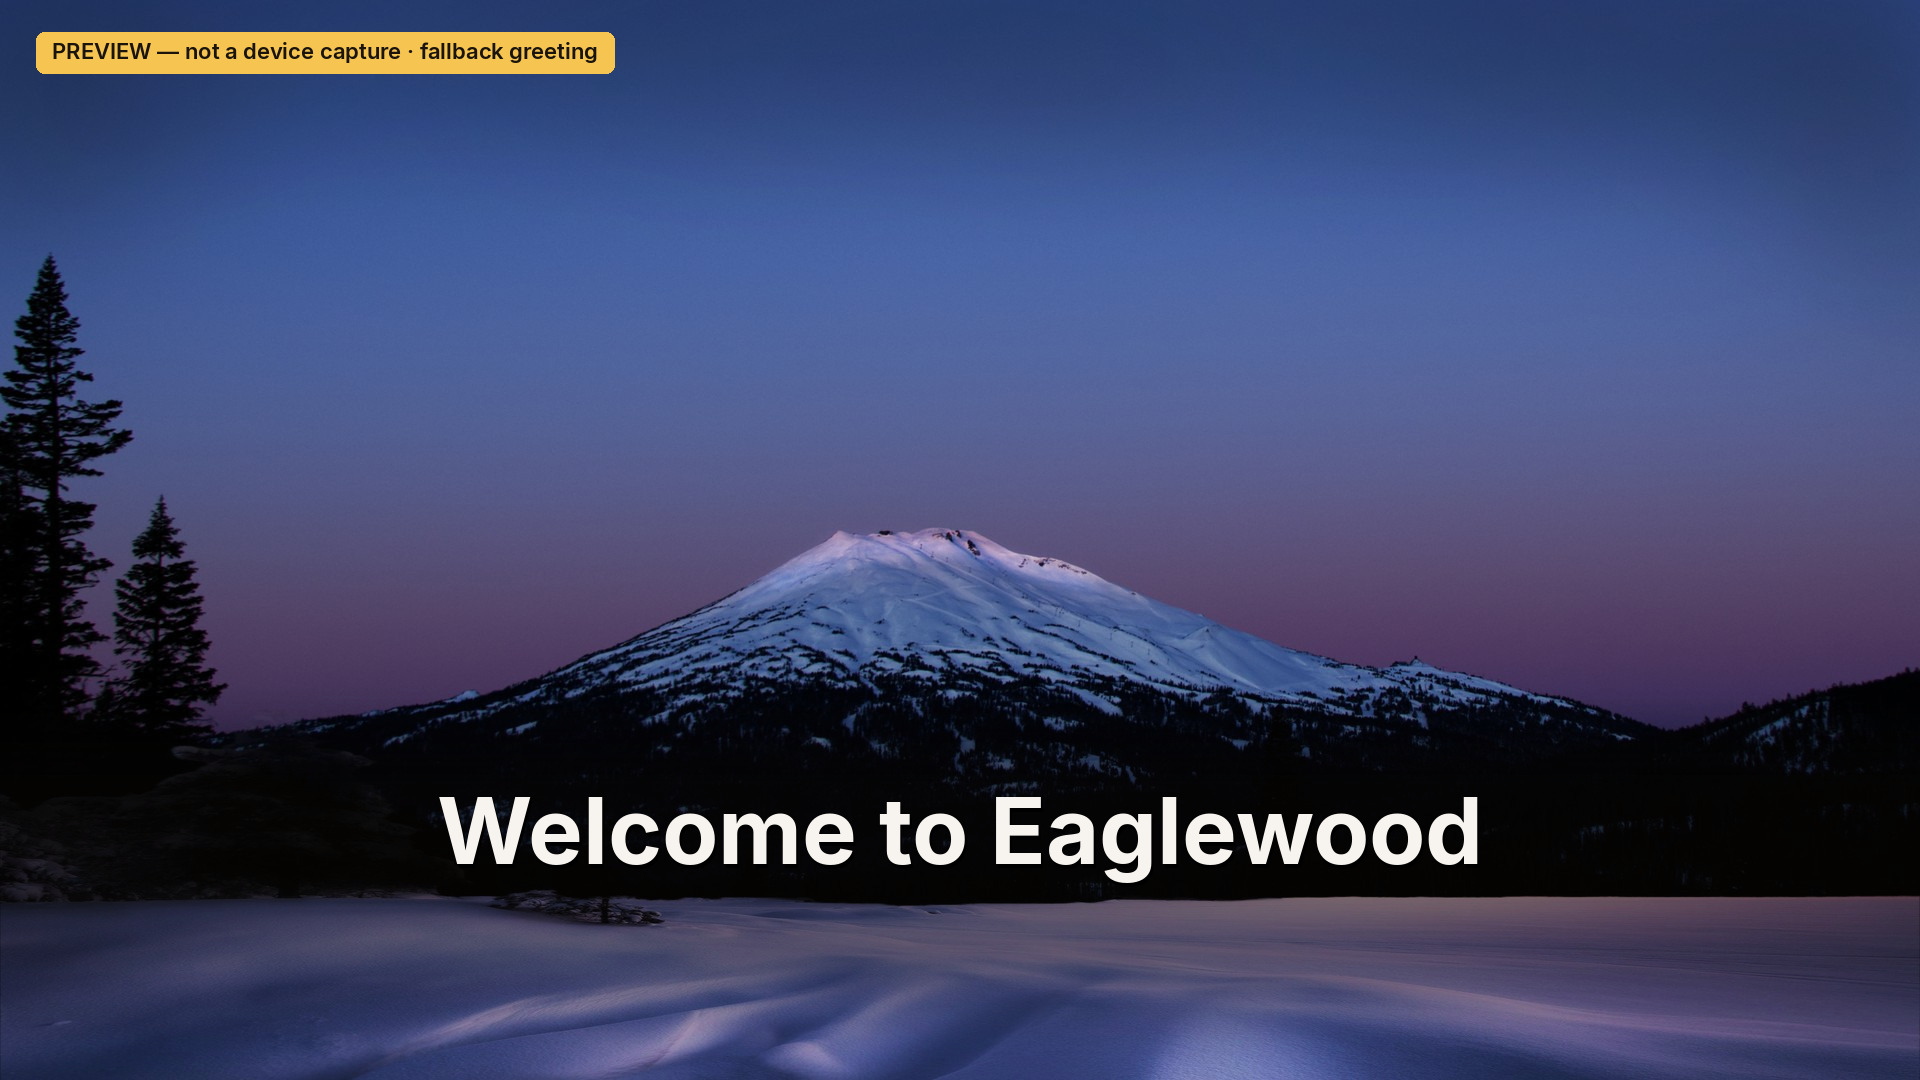
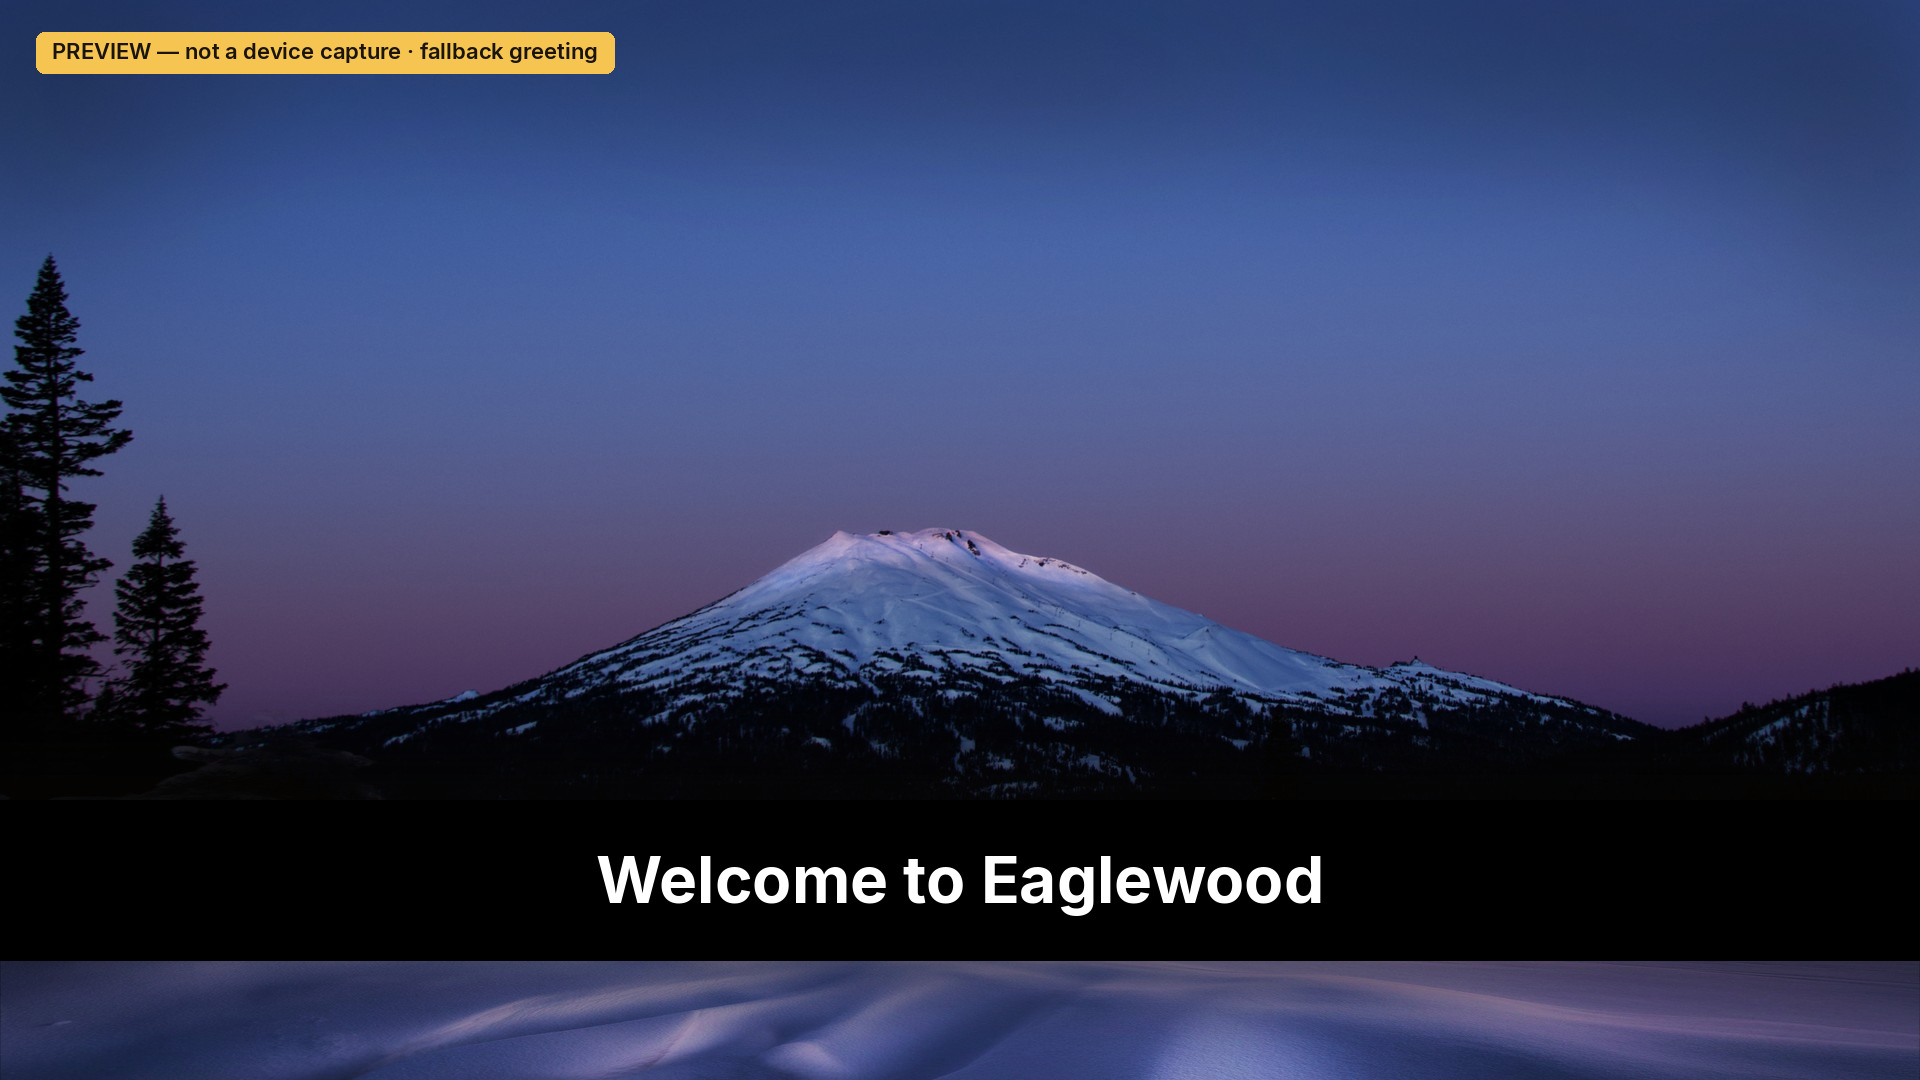
Show the welcome line with the system font.
A child Font uri of font:LargeBoldSystemFont never loads, so the label drew no glyphs over the photograph. The label now uses that system face directly, in white on a dark bar, and prints the greeting to the debug console.

Changed region(s): [[0.0, 0.7333, 1.0, 0.9167]]

diff --git a/scripts/render_preview.py b/scripts/render_preview.py
@@ -27,20 +27,19 @@ FONT = "/usr/share/fonts/truetype/macos/Inter-Bold.ttf"
 BADGE_FONT = "/usr/share/fonts/truetype/macos/Inter-SemiBold.ttf"
 
 
-def parse_label(xml: str, node_id: str) -> dict[str, str]:
-    match = re.search(
-        rf'<Label\s+id="{node_id}"([^>]*)>(.*?)</Label>',
-        xml,
-        re.DOTALL,
-    )
+def parse_tag(xml: str, tag: str, node_id: str) -> dict[str, str]:
+    match = re.search(rf'<{tag}\s+id="{node_id}"([^>]*)/?>', xml)
     if match is None:
-        raise SystemExit(f"label {node_id} not found")
-    attrs = dict(re.findall(r'(\w+)="([^"]*)"', match.group(1)))
-    font = re.search(r'<Font\b([^>]*)/>', match.group(2))
-    if font is None:
-        raise SystemExit(f"font for {node_id} not found")
-    attrs.update(dict(re.findall(r'(\w+)="([^"]*)"', font.group(1))))
-    return attrs
+        raise SystemExit(f"{tag} {node_id} not found")
+    return dict(re.findall(r'(\w+)="([^"]*)"', match.group(1)))
+
+
+def font_size() -> int:
+    source = (ROOT / "channel" / "components" / "MainScene.brs").read_text(encoding="utf-8")
+    match = re.search(r"m\.greeting\.font\.size\s*=\s*(\d+)", source)
+    if match is None:
+        raise SystemExit("greeting font size is not set in MainScene.brs")
+    return int(match.group(1))
 
 
 def box(translation: str, width: str, height: str) -> tuple[int, int, int, int]:
@@ -61,24 +60,17 @@ def color(value: str) -> tuple[int, int, int, int]:
 
 def render(greeting: str, badge: str) -> Image.Image:
     xml = SCENE.read_text(encoding="utf-8")
-    greeting_attrs = parse_label(xml, "greeting")
-    shadow_attrs = parse_label(xml, "greetingShadow")
+    backing = parse_tag(xml, "Rectangle", "greetingBacking")
+    greeting_attrs = parse_tag(xml, "Label", "greeting")
+    bx, by, bw, bh = box(backing["translation"], backing["width"], backing["height"])
     gx, gy, gw, gh = box(greeting_attrs["translation"], greeting_attrs["width"], greeting_attrs["height"])
-    sx, sy, sw, sh = box(shadow_attrs["translation"], shadow_attrs["width"], shadow_attrs["height"])
-    size = int(greeting_attrs["size"])
-    font = ImageFont.truetype(FONT, size)
+    font = ImageFont.truetype(FONT, font_size())
 
     background = Image.open(IMAGES / "background.jpg").convert("RGBA")
     scrim = Image.open(IMAGES / "scrim.png").convert("RGBA").resize(background.size, Image.Resampling.BILINEAR)
     image = Image.alpha_composite(background, scrim)
     draw = ImageDraw.Draw(image)
-    draw.text(
-        (sx + sw / 2, sy + sh / 2),
-        greeting,
-        font=font,
-        fill=color(shadow_attrs["color"]),
-        anchor="mm",
-    )
+    draw.rectangle((bx, by, bx + bw, by + bh), fill=color(backing["color"]))
     draw.text(
         (gx + gw / 2, gy + gh / 2),
         greeting,

diff --git a/scripts/validate.py b/scripts/validate.py
@@ -24,7 +24,7 @@ REQUIRED = {
     "title": "Eaglewood",
     "major_version": "1",
     "minor_version": "0",
-    "build_version": "1",
+    "build_version": "2",
     "mm_icon_focus_fhd": "pkg:/images/icon_fhd.jpg",
     "mm_icon_focus_hd": "pkg:/images/icon_hd.jpg",
     "splash_screen_fhd": "pkg:/images/splash_fhd.jpg",
@@ -131,6 +131,25 @@ def check_greeting_rules() -> None:
         fail("first-token trim failed")
 
 
+def check_greeting_draws() -> None:
+    xml = (ROOT / "channel" / "components" / "MainScene.xml").read_text(encoding="utf-8")
+    source = SCENE_BRS.read_text(encoding="utf-8")
+    if 'uri="font:' in xml:
+        fail("a Font uri cannot load a system font; the label draws no glyphs")
+    if 'font="font:LargeBoldSystemFont"' not in xml:
+        fail("greeting Label must set font:LargeBoldSystemFont")
+    if xml.find('id="background"') > xml.find('id="greeting"'):
+        fail("greeting Label must come after the background Poster")
+    if "m.greeting.font = \"font:LargeBoldSystemFont\"" not in source:
+        fail("init must select the system font in BrightScript")
+    if "m.greeting.text = text" not in source:
+        fail("greeting text must be assigned on the label")
+    if "Eaglewood: greeting = " not in source:
+        fail("debug port must print the greeting")
+    if "sub init()" not in source or source.find("applyGreeting()") > source.find("end sub"):
+        fail("init() must apply the greeting before the first end sub")
+
+
 def check_no_secrets() -> None:
     banned = re.compile(r"\b(?:\d{3}[-. ]\d{3}[-. ]\d{4}|\d{16}|WIFI_PASSWORD|DOOR_CODE|HOST_CONTACT)\b")
     for path in (ROOT / "channel").rglob("*"):
@@ -164,6 +183,7 @@ def main() -> None:
     check_manifest(parse_manifest())
     check_images()
     check_greeting_rules()
+    check_greeting_draws()
     check_no_secrets()
     check_zip()
     print("validate ok")

diff --git a/README.md b/README.md
@@ -22,7 +22,7 @@ Checked on the Flickr photo page (schema.org `license` is the Public Domain Mark
 
 ## Layout
 
-The channel is FHD (`ui_resolutions=fhd`, `rsg_version=1.3`). The photograph is full screen. A short gradient sits behind the greeting so the type stays readable over the trees, and a second copy of the line is offset as a shadow. Back on this screen exits the app. Home always exits; the app cannot intercept it. There is no web view, no video, and no launch of other apps.
+The channel is FHD (`ui_resolutions=fhd`, `rsg_version=1.3`). The photograph is full screen. The greeting uses `font:LargeBoldSystemFont` on the Label itself, in white, on a dark translucent bar. Back on this screen exits the app. Home always exits; the app cannot intercept it. There is no web view, no video, and no launch of other apps.
 
 Launch does not wait on the network (`network_not_required=1`). `splash_min_time=0` so the splash (the same photograph) gives way as soon as the scene is up.
 
